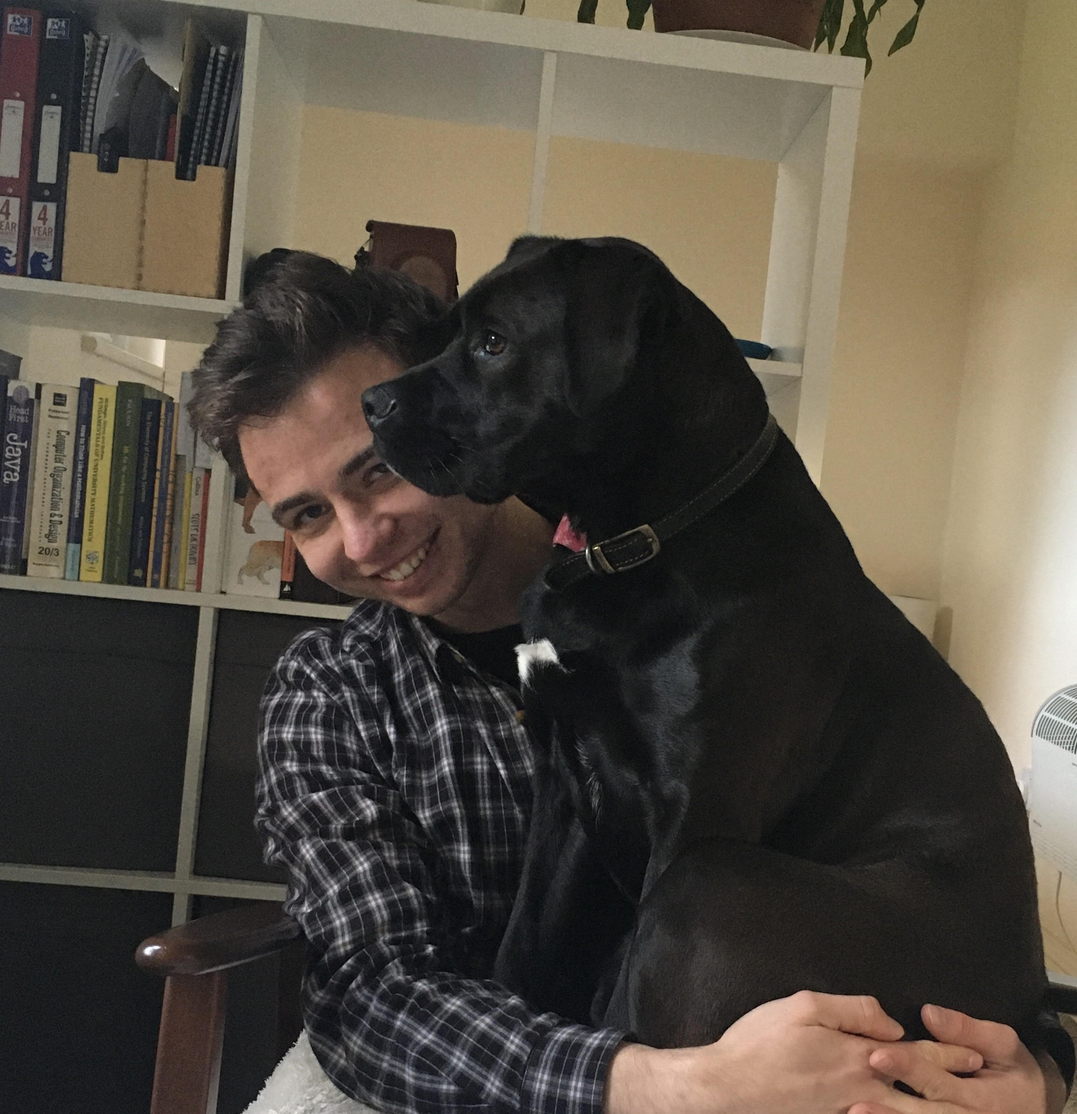
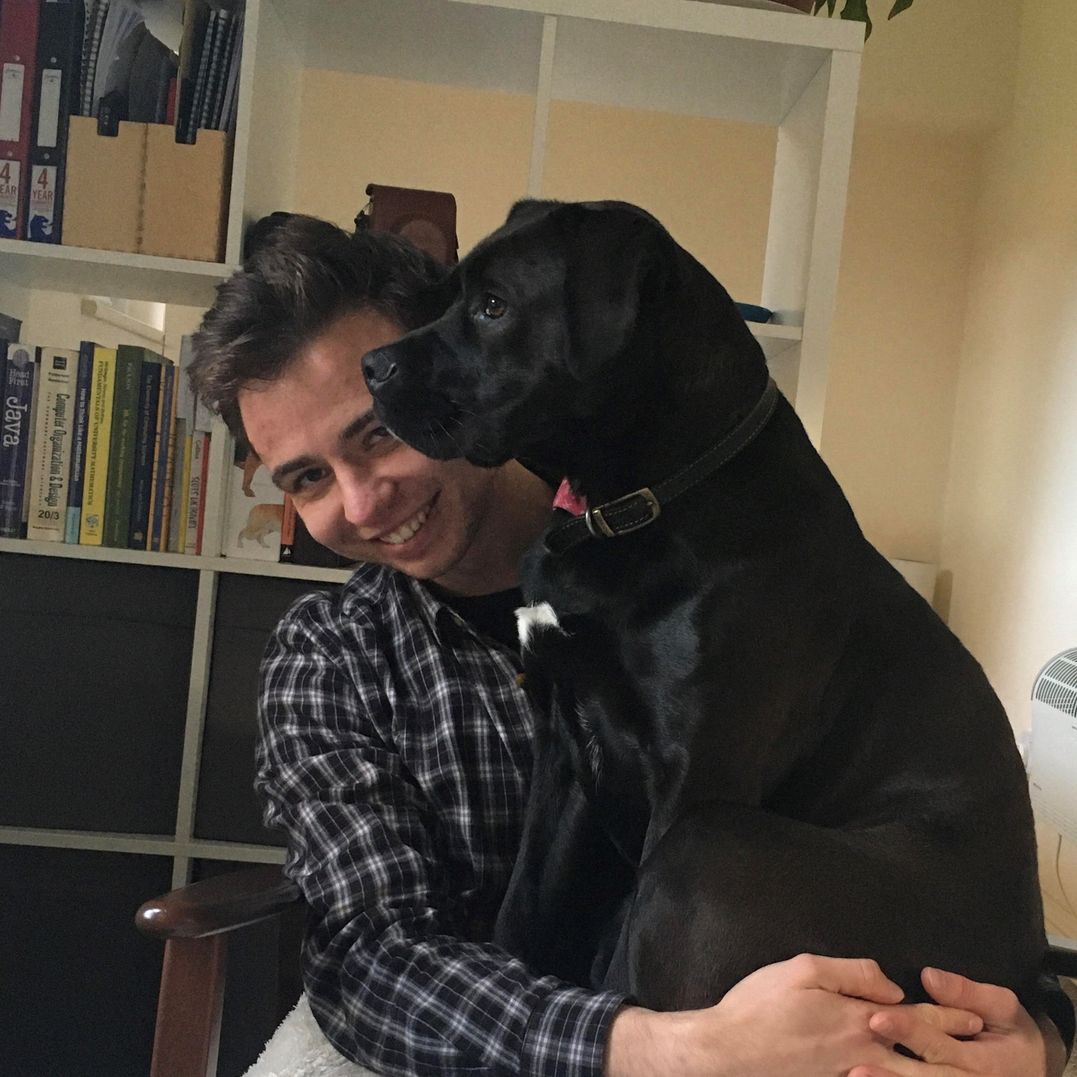
About page update

diff --git a/templates/glover/about.html b/templates/glover/about.html
@@ -50,7 +50,7 @@
 				<div class="card mb-4">
 					<div class="card-header">Legal Advisor</div>
 					<div class="card-size">
-						<img class="card-img-top" src="{% static 'images/TeamMember.JPG' %}">
+						<img class="card-img-top" src="{% static 'images/Fraser.JPG' %}">
 					</div>
 					<div class="card-body">
 						<h5 class="card-title">Fraser</h5>
